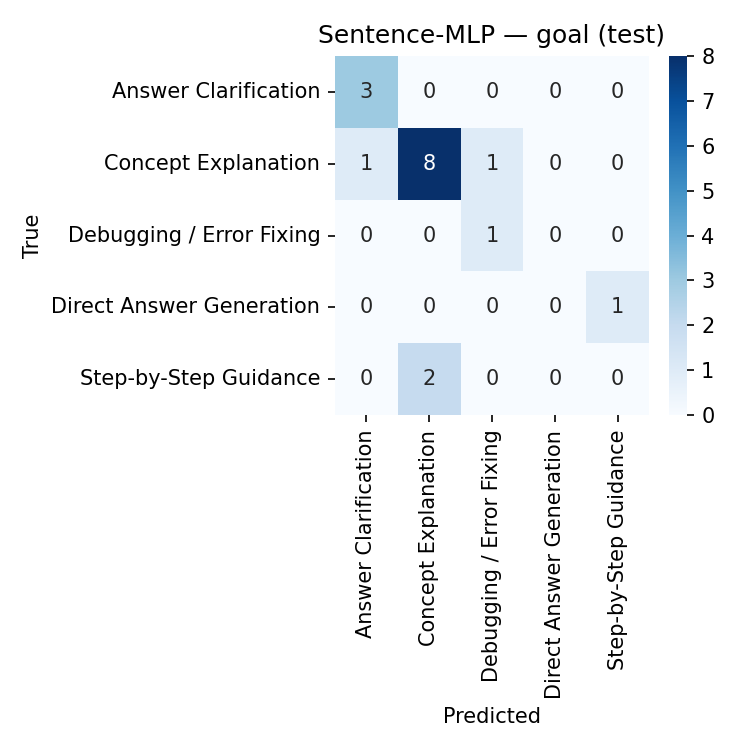
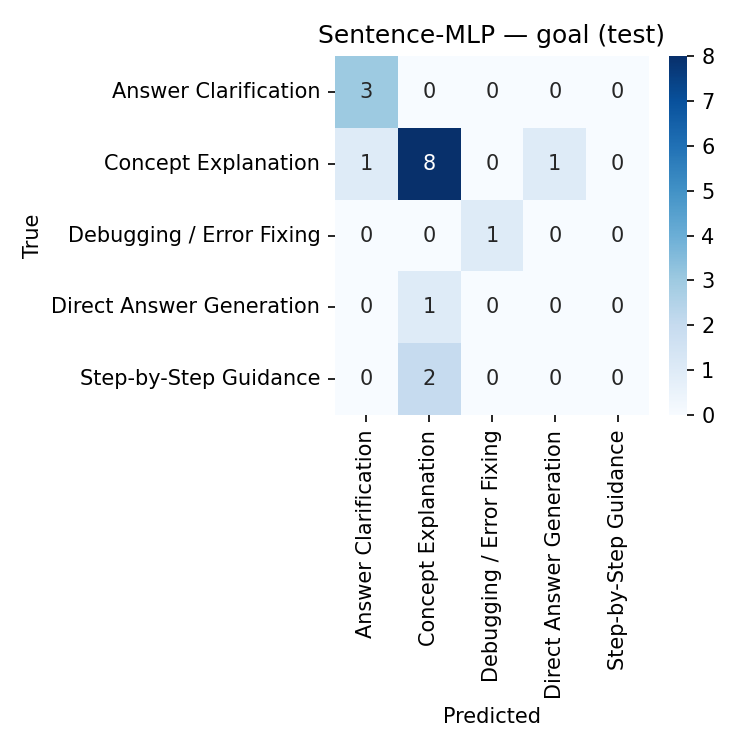
Update results with GPT-scored quality features
- Run score_responses.py to add coherence/correctness/guidance scores
  for all 98 GPT-labeled rows in processed.csv
- Retrain classifiers: TF-IDF macro-F1 0.424→0.531, Sentence-MLP 0.465→0.524
- TextCNN unchanged (text-only, no quality features)
- Update report table, narrative, and confusion matrix figures

Changed region(s): [[0.6133, 0.1533, 0.7973, 0.276], [0.7667, 0.3373, 0.8893, 0.46], [0.5213, 0.3373, 0.6133, 0.46]]

diff --git a/Report/final_report.tex b/Report/final_report.tex
@@ -352,9 +352,9 @@ For goal prediction, the full 162-row dataset was split 8:1:1 stratified by clas
 Task & Model & Acc. & Macro-F1 \\
 \midrule
 \multirow{3}{*}{\shortstack[l]{Goal\\(5-class)}}
-  & TF-IDF + LogReg        & \textbf{0.706} & 0.424 \\
-  & Sentence-MLP           & \textbf{0.706} & \textbf{0.465} \\
-  & TextCNN                & \textbf{0.706} & 0.300 \\
+  & TF-IDF + LogReg        & \textbf{0.706} & \textbf{0.531} \\
+  & Sentence-MLP           & \textbf{0.706} & 0.524 \\
+  & TextCNN                & 0.588 & 0.217 \\
 \midrule
 \multirow{3}{*}{\shortstack[l]{Satisfaction\\(3-class)}}
   & TF-IDF + LogReg        & \textbf{0.578} & \textbf{0.525} \\
@@ -366,7 +366,7 @@ Task & Model & Acc. & Macro-F1 \\
 \label{tab:clf-results}
 \end{table}
 
-For goal prediction, all three models achieve 70.6\% accuracy, outperforming the majority baseline of 58.8\% by 11.8 percentage points. The Sentence-MLP achieves the highest macro-F1 (0.465), indicating it is the most balanced across the five classes. TF-IDF and Sentence-MLP both correctly classify Answer Clarification and Concept Explanation well, while Debugging/Error Fixing and Direct Answer Generation remain difficult due to their small class sizes. TextCNN achieves competitive accuracy but lower macro-F1 (0.300), suggesting it tends to favour the majority class.
+For goal prediction, TF-IDF and Sentence-MLP both achieve 70.6\% accuracy, outperforming the majority baseline of 58.8\% by 11.8 percentage points. Adding GPT-scored response quality features (coherence, correctness, guidance) meaningfully improved macro-F1 for both models — TF-IDF reaching 0.531 and Sentence-MLP 0.524 — indicating that quality scores help distinguish minority classes beyond what text alone can capture. TF-IDF achieves the best macro-F1 (0.531) and correctly classifies Debugging/Error Fixing with perfect precision and recall. TextCNN, which uses text only and cannot leverage quality scores, drops to 58.8\% accuracy and macro-F1 of 0.217, collapsing largely to the majority class.
 
 For satisfaction prediction, TF-IDF with logistic regression achieves the highest accuracy (57.8\%) and macro-F1 (0.525), both above the 54.7\% majority baseline. The simpler TF-IDF model outperforming neural alternatives is expected when training data is scarce: n-gram features generalise more directly from short text than learned representations, which require more examples. TextCNN's low macro-F1 (0.298) despite reasonable accuracy reveals class collapse — it predominantly predicts the majority class (neutral).
 